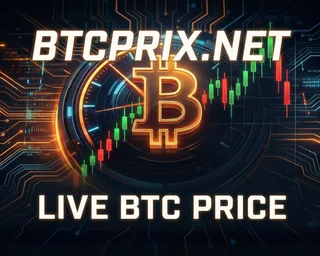
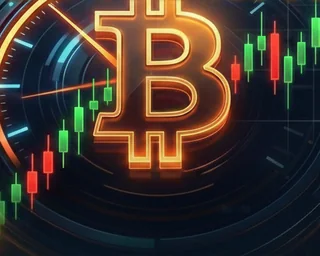
BTC Prix: drop .net from the wordmark and the artwork
The domain is gone, so the name is just BTCPRIX now.

The Share button was the urgent part: it tweeted 'Check it out: BTCPRIX.net',
sending anyone who shared to a domain that no longer resolves. The
destination now goes in the url parameter instead of the text, so X renders a
proper link card from the page's og:image rather than a string to retype.

Artwork carried the dead domain too, in letters larger than anything else on
the tile:
- The apps-grid tile is recropped to the band between the two text blocks,
  so it is now the Bitcoin mark alone. The card already supplies the name
  and description, so the artwork does not need words.
- share-image2.png is recropped to 1200x630 below the wordmark, keeping
  'LIVE BTC PRICE'. Dimensions still match the og:image tags.

diff --git a/btc-prix/index.html b/btc-prix/index.html
@@ -191,7 +191,7 @@
         <div class="flex items-center gap-3">
             <div class="flex flex-col leading-tight">
                 <h1 class="text-sm font-semibold tracking-[0.2em] uppercase opacity-90 transition-theme"
-                    style="color: var(--text-main);">BTCPRIX.net</h1>
+                    style="color: var(--text-main);">BTCPRIX</h1>
                 <span class="text-[10px] tracking-widest lowercase opacity-60 transition-theme"
                     style="color: var(--text-secondary);">by averyio</span>
             </div>
@@ -243,7 +243,7 @@
     <footer class="w-full max-w-4xl mx-auto px-4 pb-8 z-10 mt-12">
         <div class="flex justify-center mb-6">
             <button
-                onclick="window.open('https://twitter.com/intent/tweet?text=Get%20the%20fastest%20real-time%20%24BTC%20updates%20with%20zero%20bloat.%20Experience%20Bitcoin%20price%20action%20at%20its%20purest.%20Check%20it%20out%3A%20BTCPRIX.net%20%F0%9F%9A%80%20%23Bitcoin%20%23BTC%20%23Crypto', '_blank')"
+                onclick="window.open('https://twitter.com/intent/tweet?text=Get%20the%20fastest%20real-time%20%24BTC%20updates%20with%20zero%20bloat.%20Experience%20Bitcoin%20price%20action%20at%20its%20purest.%20%F0%9F%9A%80%20%23Bitcoin%20%23BTC%20%23Crypto&url=https%3A%2F%2Faveryio.net%2Fbtc-prix%2F', '_blank')"
                 class="flex items-center gap-2 px-4 py-2 rounded-full border bg-[var(--card-bg)] hover:bg-[var(--glass-bg)] transition-all group"
                 style="border-color: var(--card-border);">
                 <svg class="w-4 h-4 transition-colors group-hover:text-blue-400" fill="currentColor" viewBox="0 0 24 24"
